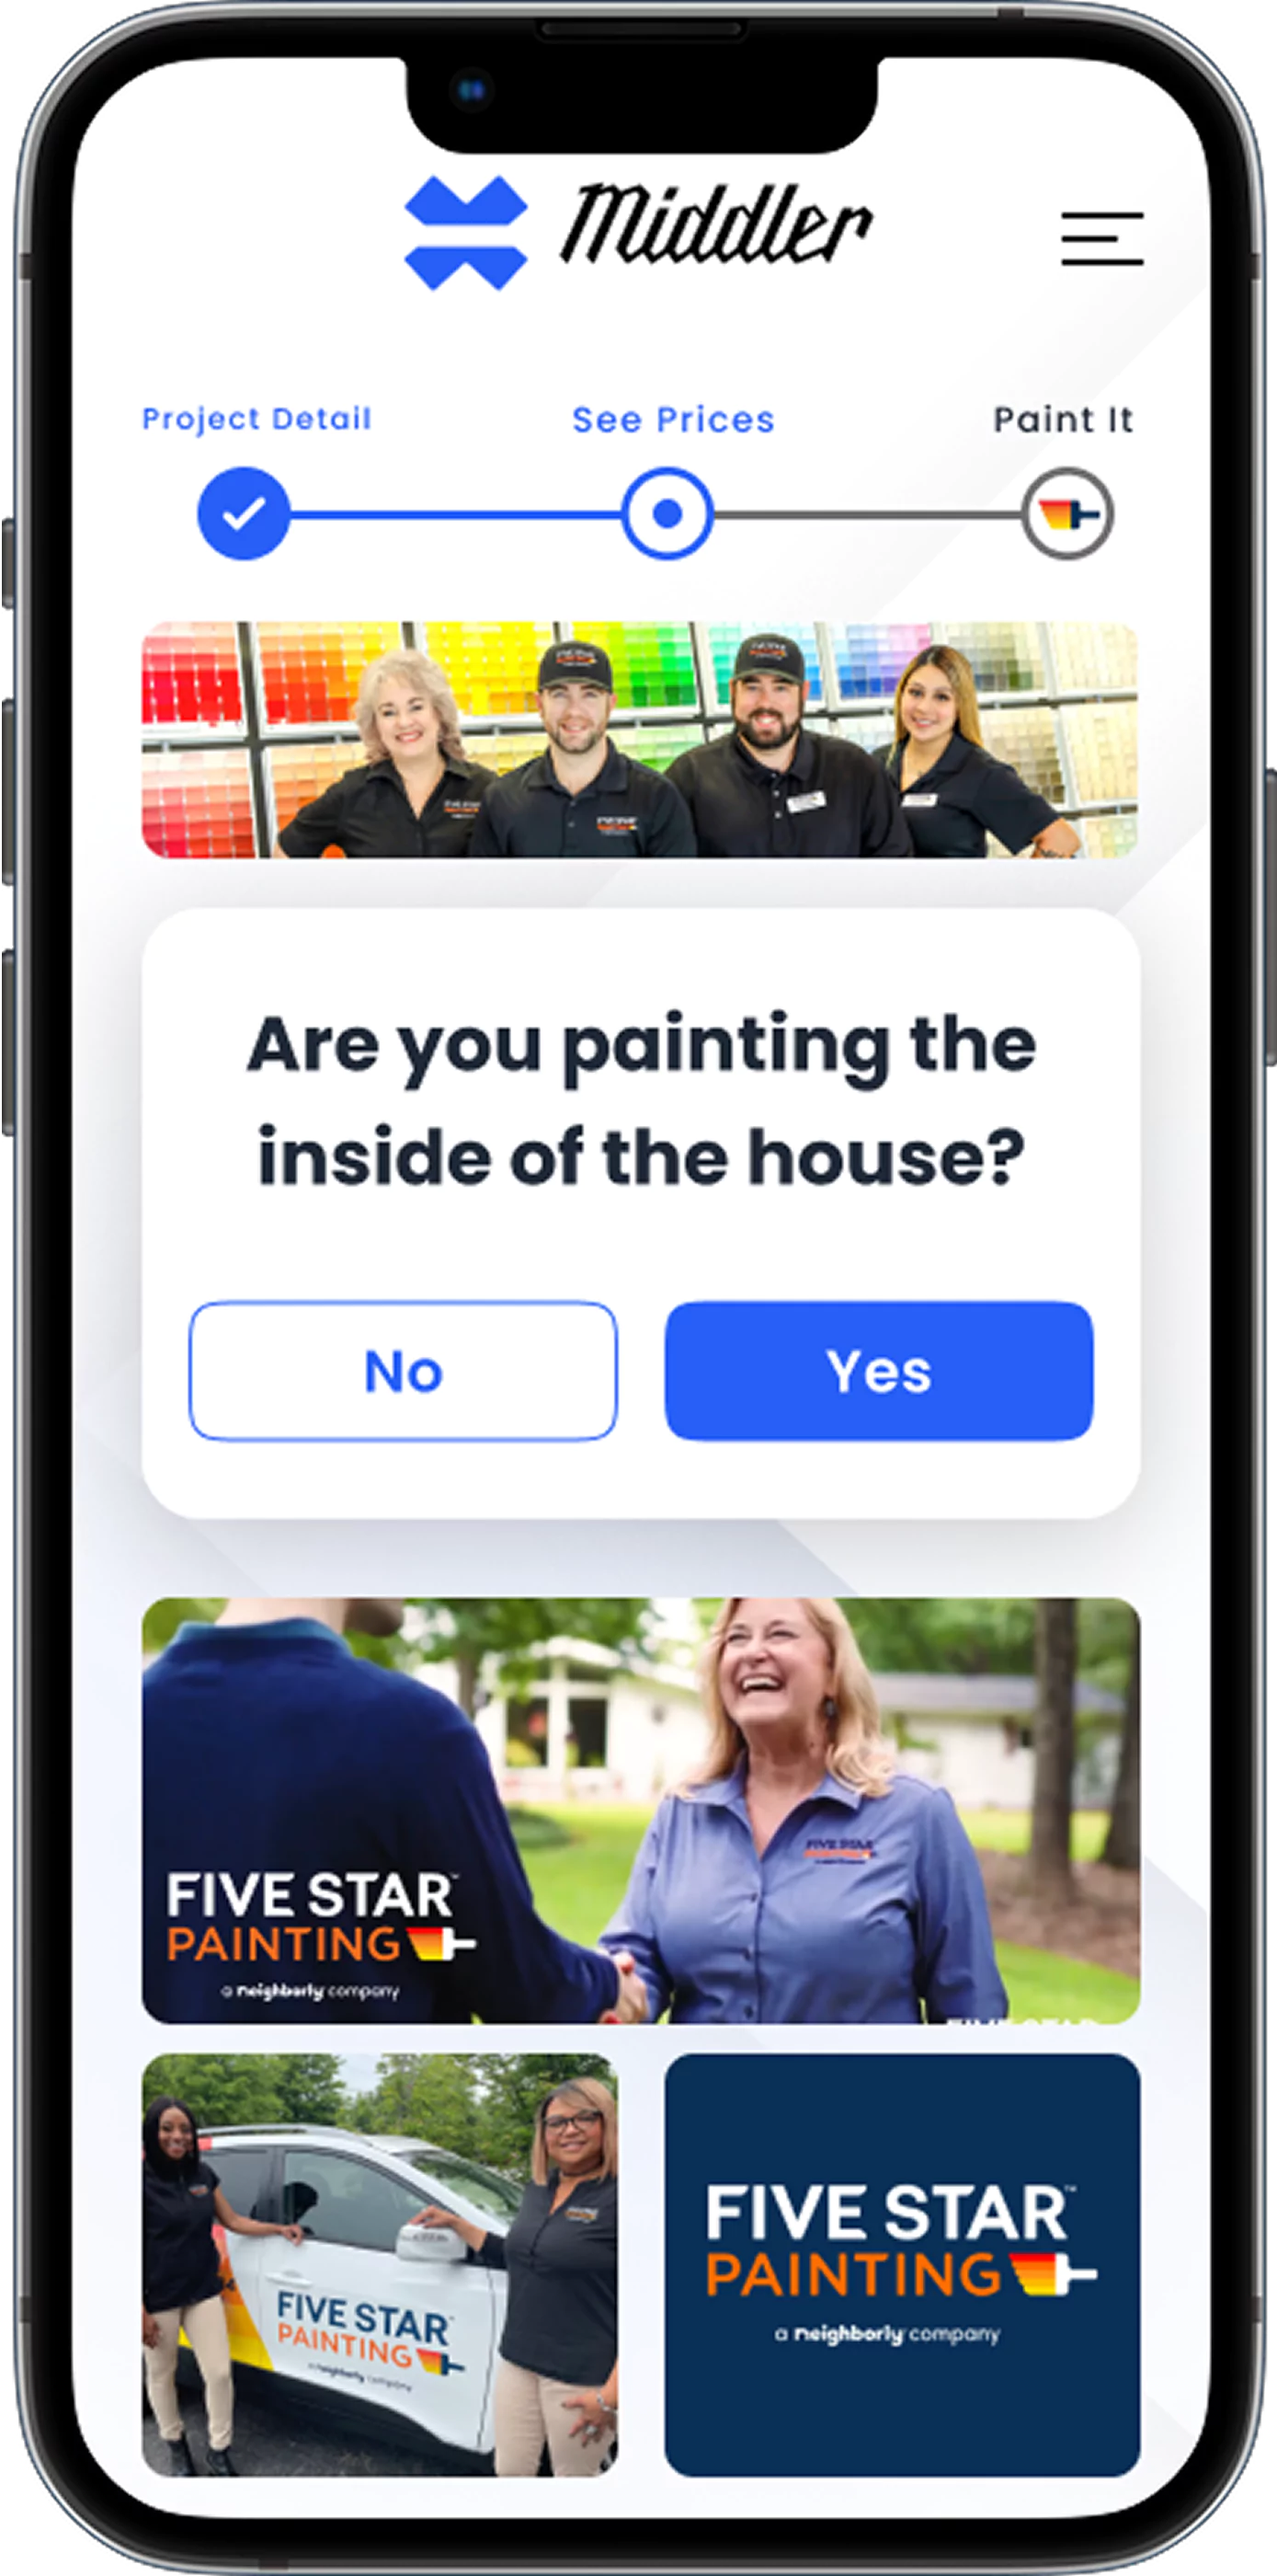
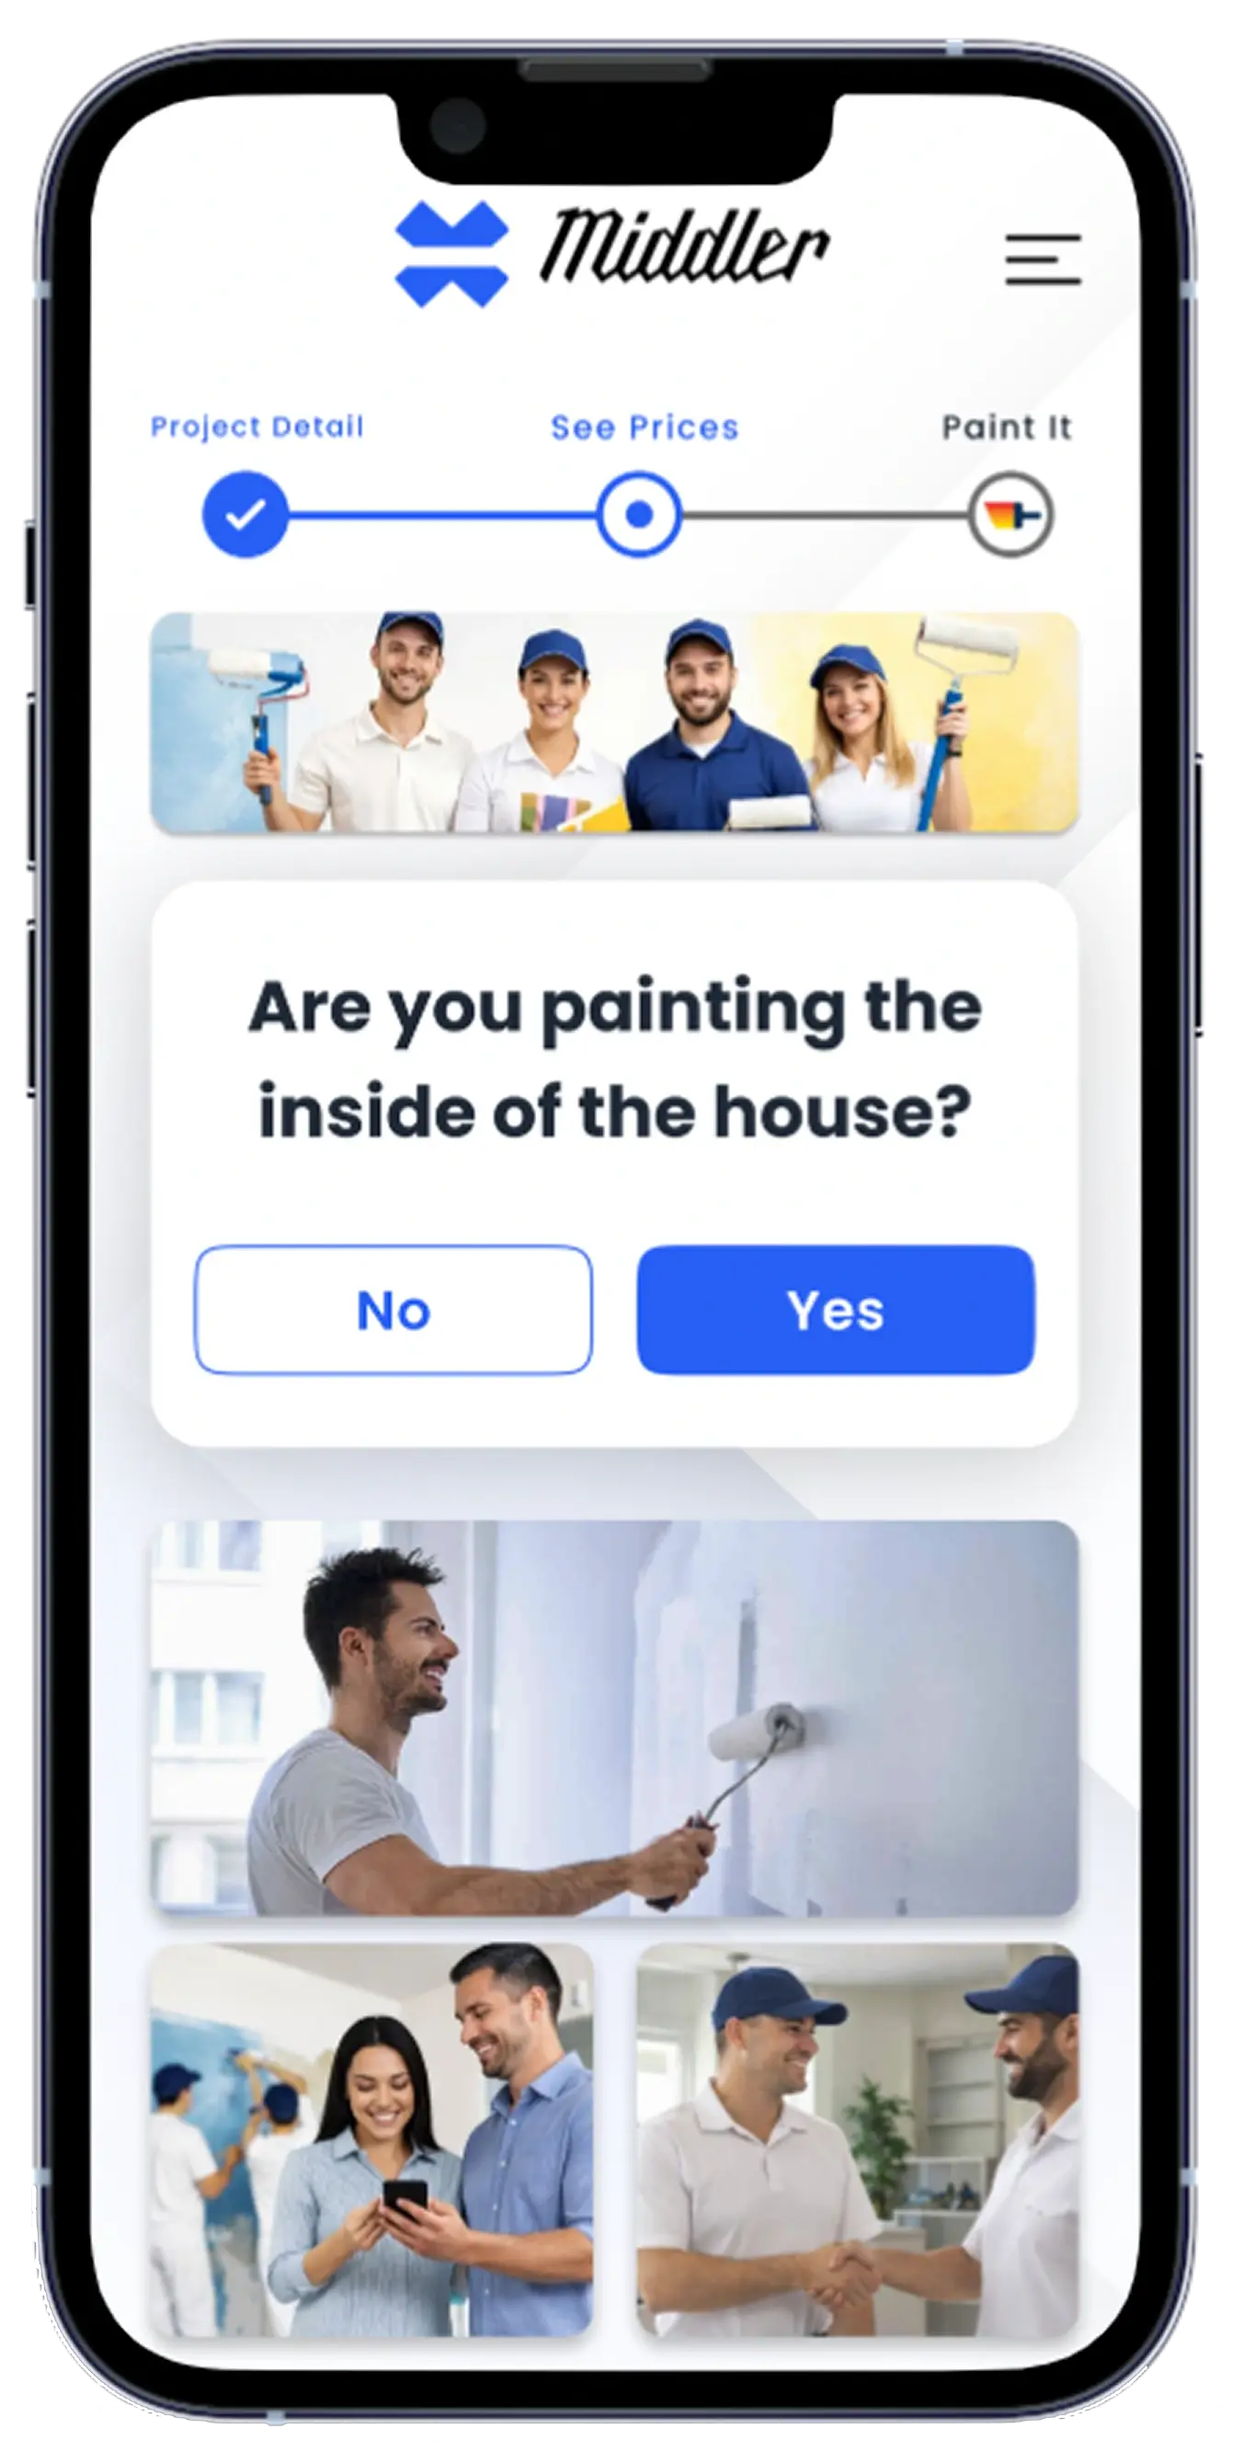
update

diff --git a/components/modals/emailType.jsx b/components/modals/emailType.jsx
@@ -9,7 +9,6 @@ import Image from "next/image";
 
 //// MUTATIONS
 import QUICK_ESTIMATE from "../../app/_mutations/quickEstimateClient";
-import InputFieldText from "../form/inputFieldText";
 
 const EmailType = ({
   dispatch,
@@ -33,11 +32,8 @@ const EmailType = ({
 }) => {
   const router = useRouter();
   const [message, setMessage] = useState("");
-  const [dropdown, setDropdown] = useState("");
   const [loading, setLoading] = useState("");
   const [loadingColor, setLoadingColor] = useState("white");
-  const [userType, setUserType] = useState("");
-  const [showOtherInput, setShowOtherInput] = useState(false);
   const [flowStep, setFlowStep] = useState("role");
   const [selectedUserType, setSelectedUserType] = useState("");
   const flowTimerRef = useRef(null);
@@ -61,8 +57,6 @@ const EmailType = ({
     dispatch(changePopupType("email"));
     setFlowStep("role");
     setSelectedUserType("");
-    setUserType("");
-    setShowOtherInput(false);
     setMessage("");
     setStage(0);
   }, []);
@@ -315,7 +309,7 @@ const EmailType = ({
             className={
               flowStep === "email"
                 ? "w-auto max-w-[90%] sm:max-w-[320px] lg:max-w-[768px] rounded-xl bg-gradient-to-b from-[#EAF5FF] to-[#FAFAFA] text-black px-6 sm:px-10 py-6 sm:py-8 lg:py-12 shadow-lg flex flex-col items-center gap-4 sm:gap-6 lg:gap-7 relative"
-                : "w-auto max-w-[360px] sm:max-w-[320px] lg:max-w-[768px] rounded-xl bg-gradient-to-b from-[#EAF5FF] to-[#FAFAFA] text-primary px-10 py-8 lg:py-12 shadow-lg space-y-6 lg:space-y-7 relative"
+                : "w-[90%] max-w-[650px] rounded-xl bg-gradient-to-b from-[#EAF5FF] to-[#FAFAFA] text-primary px-6 sm:px-8 lg:px-10 py-8 lg:py-12 shadow-lg space-y-6 lg:space-y-7 relative"
             }
           >
             <button
@@ -330,116 +324,53 @@ const EmailType = ({
             {flowStep === "role" ? (
               <>
                 <h2 className="text-center text-[#043DD7] font-bold text-[22px] sm:text-[26px] lg:text-[40px] leading-[1.2]">
-                  Who Are You?
+                  Who are you?
                 </h2>
+                <p className="text-center text-[#5D6787] text-sm sm:text-base -mt-2">
+                  We'll tailor your experience in seconds
+                </p>
 
-                <div className="grid grid-cols-2 sm:grid-rows-2 *:max-lg:h-24 gap-3 lg:gap-7">
+                <div className="grid grid-cols-1 md:grid-cols-2 gap-3 lg:gap-6 w-full">
                   {[
                     {
                       label: "Homeowner",
-                      icon: "home-new.svg",
+                      description: "Looking for\npainting services",
+                      image: "/images/modals/homeowner.jpeg",
                       value: "homeowner",
                     },
                     {
-                      label: "Painter",
-                      icon: "painter-new.svg",
-                      value: "painter",
-                    },
-                    {
-                      label: "Handyman",
-                      icon: "handyman-new.svg",
-                      value: "handyman",
+                      label: "Pro",
+                      description: "Painter . Contractor\nHandyman",
+                      image: "/images/modals/pro.jpeg",
+                      value: "pro",
                     },
                   ].map((item, idx) => (
-                    <div
+                    <button
+                      type="button"
                       key={idx}
-                      className="w-full"
+                      disabled={isSubmitting}
+                      className="group relative w-full h-[260px] lg:h-[320px] rounded-2xl overflow-hidden border border-white/70 shadow-[0_12px_32px_rgba(4,61,215,0.2)] transition-transform duration-300 hover:scale-[1.01] disabled:opacity-60 disabled:cursor-not-allowed"
                       onClick={() => {
                         startEmailCaptureFlow(item.value);
                       }}
                     >
-                      <button
-                        type="button"
-                        disabled={isSubmitting}
-                        className="w-full py-5 px-8 lg:py-8 cursor-pointer bg-primary text-white gap-2 lg:gap-4 flex flex-col items-center rounded-lg disabled:opacity-60 disabled:cursor-not-allowed"
-                      >
-                        <Image
-                          src={`/images/icons/${item.icon}`}
-                          alt={item.label}
-                          width={56}
-                          height={56}
-                          className="max-h-8 lg:max-h-14"
-                        />
-                        <span className="text-xs lg:text-xl tracking-wider font-bold uppercase">
-                          {item.label}
-                        </span>
-                      </button>
-                    </div>
-                  ))}
-
-                  {!showOtherInput ? (
-                    <div
-                      className="w-full"
-                      onClick={() => !isSubmitting && setShowOtherInput(true)}
-                    >
-                      <button
-                        type="button"
-                        disabled={isSubmitting}
-                        className="w-full py-5 px-8 lg:py-8 cursor-pointer bg-primary text-white gap-2 lg:gap-4 flex flex-col items-center rounded-lg disabled:opacity-60 disabled:cursor-not-allowed"
-                      >
-                        <Image
-                          src="/images/icons/others-new.svg"
-                          alt="Other"
-                          width={56}
-                          height={56}
-                          className="max-h-8 lg:max-h-14"
-                        />
-                        <span className="text-xs lg:text-xl tracking-wider font-bold uppercase">
-                          Other
-                        </span>
-                      </button>
-                    </div>
-                  ) : (
-                    <div className="flex flex-col justify-between lg:justify-end w-full lg:gap-6">
-                      <InputFieldText
-                        inputType={"text"}
-                        placeholder={"Your role"}
-                        value={userType}
-                        dispatch={() => {}}
-                        changeValue={({ value }) => setUserType(value)}
-                        type={"userType"}
-                        dropdown={""}
-                        setDropdown={setDropdown}
-                        required={!userType}
-                        id={"userType"}
-                        validation={false}
-                        readOnly={false}
-                        edit={true}
-                        changeEdit={() => {}}
+                      <Image
+                        src={item.image}
+                        alt={item.label}
+                        fill
+                        className="object-cover"
                       />
-                      <div
-                        onClick={() => {
-                          if (isSubmitting) return;
-                          const trimmed = userType.trim();
-                          if (!trimmed) {
-                            setMessage("Role is required.");
-                            return;
-                          }
-                          startEmailCaptureFlow(trimmed);
-                        }}
-                      >
-                        <button
-                          type="button"
-                          disabled={isSubmitting}
-                          className="w-full py-3 px-8 lg:py-6 cursor-pointer bg-primary hover:bg-primary-800 transition-all duration-300 text-white gap-2 lg:gap-4 flex flex-col items-center rounded-lg disabled:opacity-60 disabled:cursor-not-allowed"
-                        >
-                          <span className="text-xs lg:text-lg font-bold uppercase">
-                            Next
-                          </span>
-                        </button>
+                      <div className="absolute inset-0 bg-gradient-to-t from-[#0A173A]/85 via-[#0A173A]/25 to-transparent" />
+                      <div className="absolute bottom-0 left-0 right-0 p-5 lg:p-6 text-white text-center">
+                        <h3 className="text-[32px] lg:text-[38px] font-bold leading-none">
+                          {item.label}
+                        </h3>
+                        <p className="mt-2 text-sm lg:text-lg whitespace-pre-line leading-snug text-white/95">
+                          {item.description}
+                        </p>
                       </div>
-                    </div>
-                  )}
+                    </button>
+                  ))}
                 </div>
               </>
             ) : (

diff --git a/app/paint-estimator/page.js b/app/paint-estimator/page.js
@@ -541,12 +541,12 @@ const PaintEstimator = ({ }) => {
       />
 
       <main
-        className={`min-h-dvh h-full overflow-hidden w-full p-5 lg:p-3 xl:p-6 xl:py-5 bg-cover bg-no-repeat bg-center bg-[url('/images/modals/bg_1.webp')]`}
+        className={`min-h-dvh h-full overflow-hidden w-full p-5 lg:p-3 xl:p-6 xl:py-5 bg-cover bg-no-repeat bg-center bg-[url('/images/wp.jpeg')]`}
       >
-        <div className="grid size-full lg:grid-rows-1 xl:grid-cols-[0.3fr_1fr_0.3fr] 3xl:grid-cols-[0.23fr_1fr_0.23fr] gap-5 lg:gap-8 3xl:gap-10">
+        <div className="grid size-full  lg:grid-rows-1 xl:grid-cols-[0.3fr_1fr_0.3fr] 3xl:grid-cols-[0.23fr_1fr_0.23fr] gap-5 lg:gap-8 3xl:gap-10">
           {navigation.value.paintEstimator != "5" && (
             <>
-              <div className="max-lg:hidden mt-[64px] bg-cover bg-center bg-no-repeat rounded-2xl" />
+              <div className="max-lg:hidden mt-[64px] bg-cover bg-center bg-no-repeat  rounded-2xl" />
               <div
                 className={`w-full flex items-center flex-col justify-between gap-5 2xl:gap-4`}
               >
@@ -555,11 +555,11 @@ const PaintEstimator = ({ }) => {
 
                 <div className="hidden">
                   <Image
-                    src="/images/modals/team.webp"
+                    src="/images/team.jpeg"
                     alt="Team"
                     width={600}
                     height={400}
-                    className="w-full h-auto"
+                    className="w-full h-auto rounded-2xl"
                   />
                 </div>
                 <div
@@ -1099,7 +1099,7 @@ const PaintEstimator = ({ }) => {
                     } rounded-2xl`}
                 >
                   <Image
-                    src="/images/modals/3.webp"
+                    src="/images/wa.jpeg"
                     alt="Main modal"
                     width={800}
                     height={600}
@@ -1110,34 +1110,34 @@ const PaintEstimator = ({ }) => {
                 <div className="hidden grid w-full grid-cols-2 gap-3">
                   <div className="col-span-2">
                     <Image
-                      src="/images/modals/wmn_laugh.webp"
+                      src="/images/wa.jpeg"
                       alt="Woman laughing"
                       width={600}
                       height={400}
-                      className="w-full h-auto"
+                      className="w-full h-auto rounded-2xl"
                     />
                   </div>
                   <div>
                     <Image
-                      src="/images/modals/car.webp"
+                      src="/images/w3.jpeg"
                       alt="Car"
                       width={300}
                       height={200}
-                      className="w-full h-auto"
+                      className="w-full h-auto rounded-2xl"
                     />
                   </div>
                   <div>
                     <Image
-                      src="/images/modals/five_star.webp"
+                      src="/images/w4.jpeg"
                       alt="Five star"
                       width={300}
                       height={200}
-                      className="w-full h-auto"
+                      className="w-full h-auto rounded-2xl"
                     />
                   </div>
                 </div>
               </div>
-              <div className="max-lg:hidden mt-[64px] bg-cover bg-center bg-no-repeat rounded-2xl" />
+              <div className="max-lg:hidden mt-[64px] bg-cover bg-center bg-no-repeat  rounded-2xl" />
             </>
           )}
           {navigation.value.paintEstimator == "5" && (

diff --git a/app/_mutations/saveEstimate.js b/app/_mutations/saveEstimate.js
@@ -15,8 +15,8 @@ import { gql } from '@apollo/client';
 // `;
 
 const SAVE_ESTIMATE = gql`
-  mutation SaveEstimate($email: String!, $estimateID: String!, $estimate: EstimatorInputType) {
-    saveEstimate(email: $email, estimateID: $estimateID, estimate: $estimate) {
+  mutation SaveEstimate($email: String!, $estimateID: String!) {
+    saveEstimate(email: $email, estimateID: $estimateID) {
       message
     }
   }

diff --git a/app/_libs/apolloWrapper.js b/app/_libs/apolloWrapper.js
@@ -19,7 +19,7 @@ function makeClient() {
 
   return new NextSSRApolloClient({
     ssrMode: typeof window === 'undefined',
-    cache: new NextSSRInMemoryCache({ addTypename: false, include: 'active' }),
+    cache: new NextSSRInMemoryCache({ include: 'active' }),
     link: httpLink,
   });
 }
